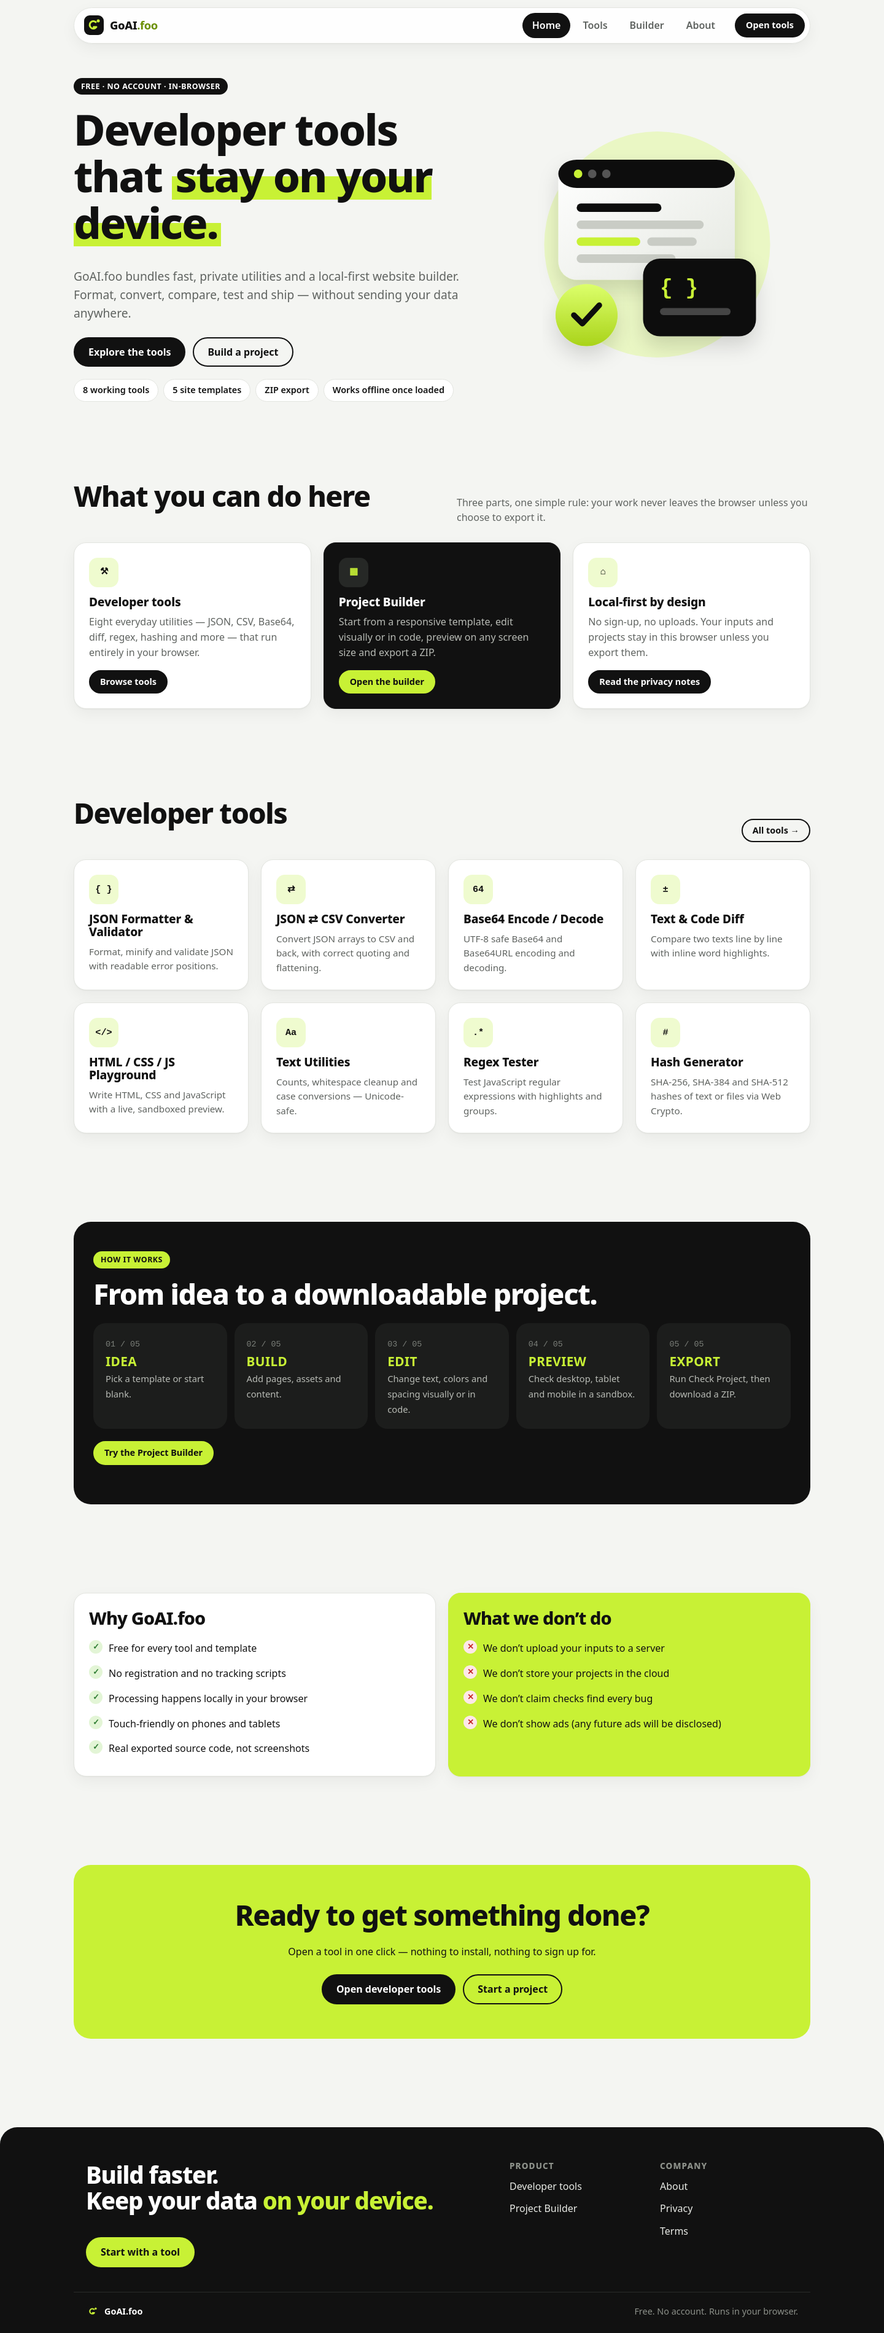
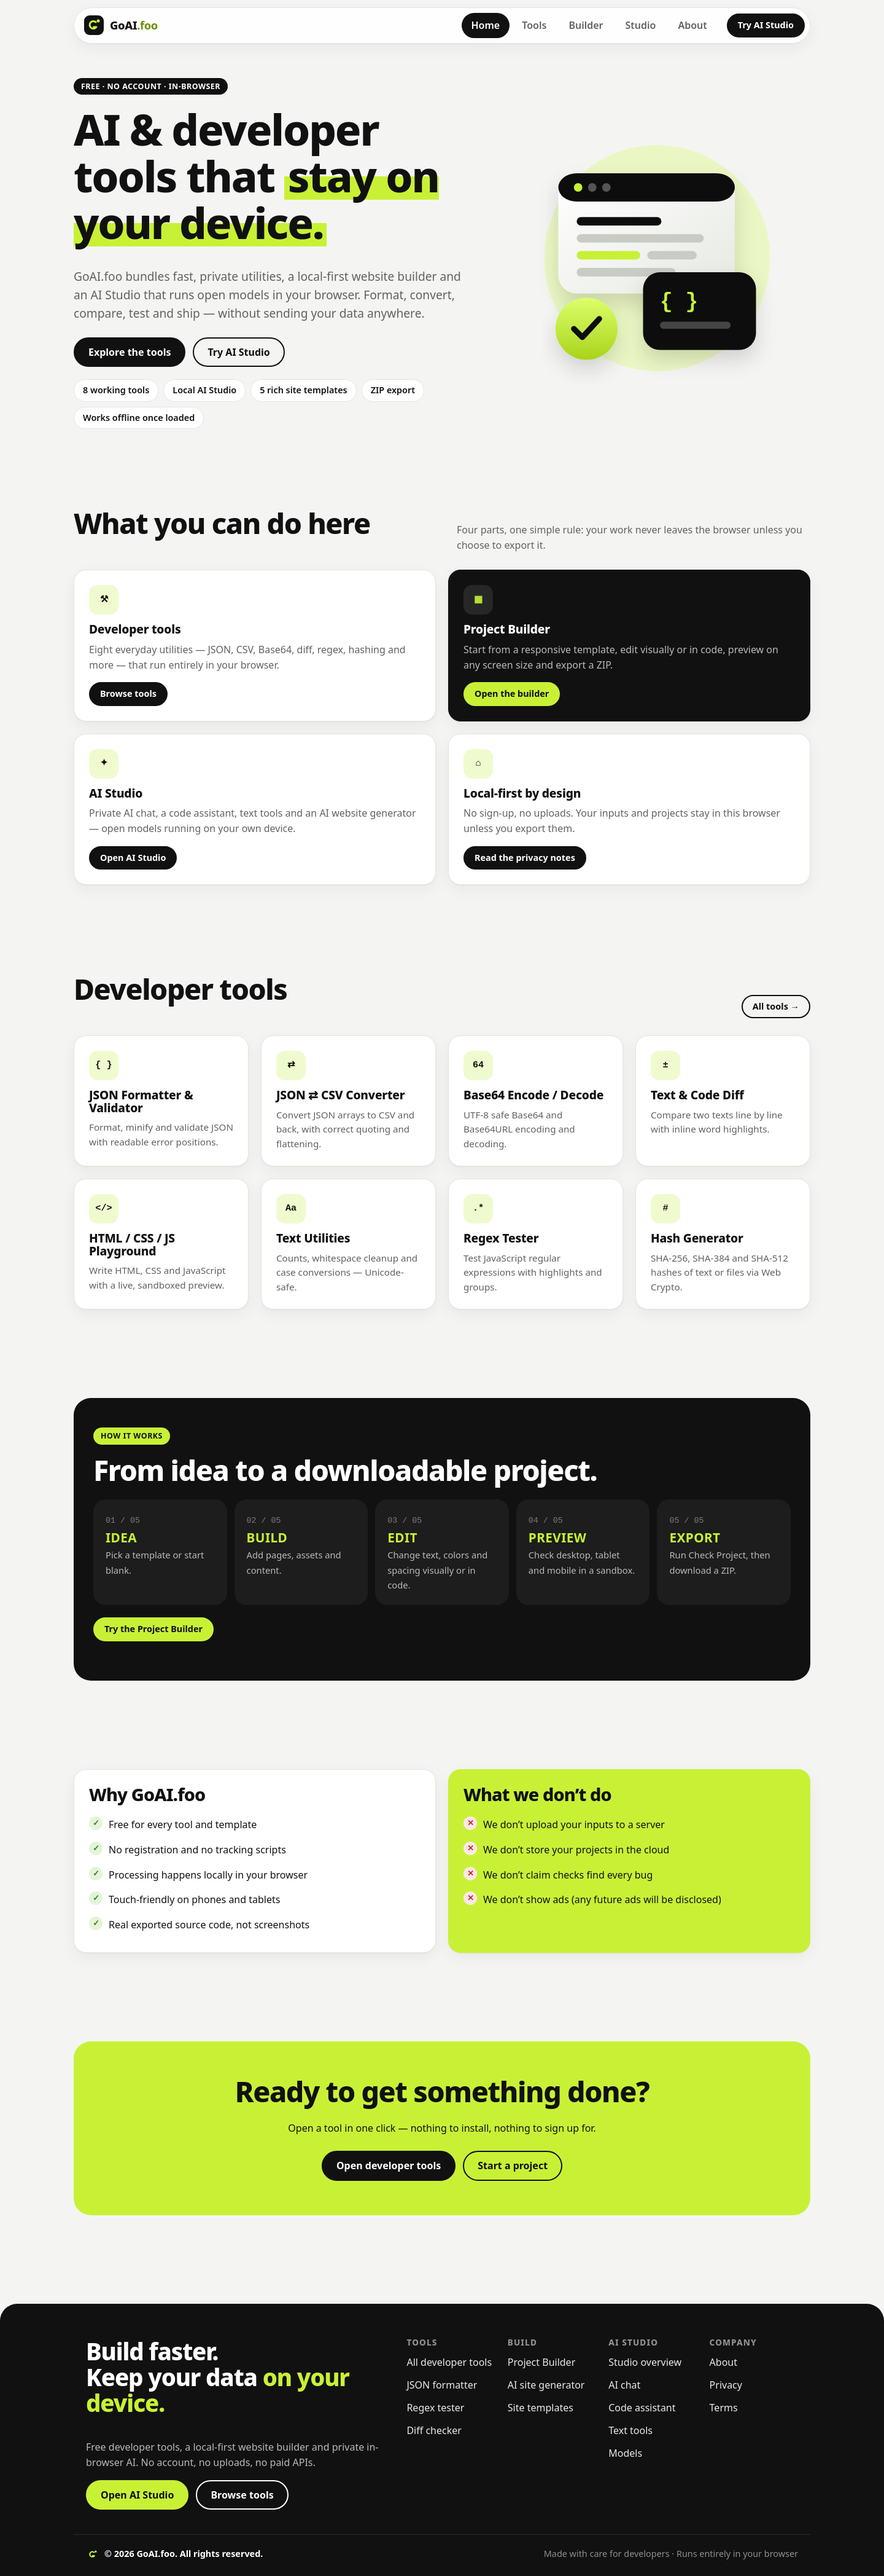
Studio e2e tests, Builder v2 screenshots, README

diff --git a/e2e/studio.js b/e2e/studio.js
@@ -1,0 +1,86 @@
+const { chromium, devices } = require("playwright");
+const B = "http://localhost:3311", S = "/workspace/goai/docs/screenshots/";
+(async () => {
+  const br = await chromium.launch(); const res = []; const ok = (n, c) => { res.push(`${c ? "PASS" : "FAIL"} ${n}`); };
+  const errs = [];
+  const mk = async (opts, gpu = "1") => { const ctx = await br.newContext(opts); await ctx.addInitScript((g) => { try { localStorage.setItem("goai-studio-mock", "1"); localStorage.setItem("goai-studio-mock-gpu", g); } catch (e) {} }, gpu); const p = await ctx.newPage(); p.on("pageerror", (e) => errs.push(e.message)); p.on("dialog", (d) => d.accept()); return p; };
+  const p = await mk({ viewport: { width: 1440, height: 950 } });
+  // overview
+  await p.goto(B + "/studio"); ok("studio overview h1", (await p.textContent("h1")).includes("on your device"));
+  ok("nav has Studio", (await p.locator(".top-nav a:has-text('Studio')").count()) === 1);
+  await p.screenshot({ path: S + "studio-overview-desktop.png", fullPage: true });
+  // chat
+  await p.goto(B + "/studio/chat"); await p.waitForSelector("#model-chat");
+  ok("default webgpu model selected", (await p.inputValue("#model-chat")).includes("Qwen2.5-0.5B"));
+  await p.click("button:has-text('Download')"); await p.waitForSelector(".st-ready", { timeout: 10000 }); ok("model download progress -> ready", true);
+  await p.fill("#chat-in", "Hello studio"); await p.keyboard.press("Enter");
+  await p.waitForSelector(".st-bubble.assistant:has-text('mock model')", { timeout: 10000 });
+  await p.waitForTimeout(800);
+  ok("streamed reply", (await p.locator(".st-bubble.assistant").count()) >= 1);
+  ok("history saved", (await p.locator(".st-history .st-hbtn:has-text('Hello studio')").count()) === 1);
+  await p.fill("#chat-in", "Second question"); await p.keyboard.press("Enter"); await p.waitForTimeout(2000);
+  await p.screenshot({ path: S + "studio-chat-desktop.png" });
+  await p.reload(); await p.waitForSelector(".st-hbtn"); await p.click(".st-hbtn"); await p.waitForTimeout(300);
+  ok("history persists after reload", (await p.locator(".st-bubble").count()) === 4);
+  // code
+  await p.goto(B + "/studio/code"); await p.waitForSelector(".cm-content");
+  await p.click('.st-modelrow button.btn-dark'); await p.waitForSelector(".st-ready");
+  await p.click(".chips button:has-text('Fix bugs')"); await p.click("button:has-text('Run Fix bugs')");
+  await p.waitForSelector(".st-output pre", { timeout: 10000 }); await p.waitForTimeout(1500);
+  ok("code answer with code block", (await p.locator(".st-output pre").count()) >= 1);
+  await p.click("button:has-text('Use in editor')"); await p.waitForTimeout(300);
+  ok("use in editor", (await p.locator(".cm-content").textContent()).includes("return a + b"));
+  await p.screenshot({ path: S + "studio-code-desktop.png" });
+  // text
+  await p.goto(B + "/studio/text"); await p.click("button:has-text('Try a sample')");
+  await p.click('.st-modelrow button.btn-dark'); await p.waitForSelector('.st-ready');
+  await p.click(".tool-panel .toolbar button.btn-dark"); await p.waitForTimeout(2500);
+  ok("text tool output", ((await p.textContent(".st-plain")) || "").length > 10);
+  await p.click(".chips button:has-text('Translate to English')"); await p.check(".st-check input");
+  await p.click(".tool-panel .toolbar button.btn-dark"); await p.waitForTimeout(1500);
+  ok("dedicated translate model", (await p.textContent(".st-plain")).includes("Translation (mock)"));
+  await p.screenshot({ path: S + "studio-text-desktop.png" });
+  // site generator
+  await p.goto(B + "/studio/site"); await p.click("button:has-text('Try an example')");
+  await p.locator("#site-color").fill("#c2410c");
+  await p.click('.st-modelrow button.btn-dark').catch(() => {}); await p.waitForSelector(".st-ready");
+  await p.click("button:has-text('Write my site with AI')"); await p.waitForSelector(".alert-ok", { timeout: 15000 }); await p.waitForTimeout(800);
+  const fr = p.frameLocator(".st-frame");
+  ok("AI copy in preview", (await fr.locator("h1").first().textContent()).includes("Bread worth waking up for"));
+  ok("preview footer", (await fr.locator(".site-footer").textContent()).includes("All rights reserved"));
+  await p.screenshot({ path: S + "studio-site-desktop.png" });
+  await p.click("button:has-text('Open in Builder')"); await p.waitForURL(/builder\/edit/); await p.waitForSelector("iframe"); await p.waitForTimeout(800);
+  ok("opened generated site in builder", (await p.frameLocator("iframe").locator("h1").first().textContent()).includes("Bread"));
+  // models
+  await p.goto(B + "/studio/models"); await p.waitForSelector(".st-model");
+  ok("models page lists all", (await p.locator(".st-model").count()) === 8);
+  await p.screenshot({ path: S + "studio-models-desktop.png", fullPage: true });
+  // no-webgpu fallback
+  const q = await mk({ viewport: { width: 1280, height: 900 } }, "0");
+  await q.goto(B + "/studio/chat"); await q.waitForSelector(".st-gpu");
+  ok("no-webgpu fallback message", (await q.textContent(".st-gpu")).includes("WebGPU isn’t available"));
+  ok("cpu model default", (await q.inputValue("#model-chat")).includes("SmolLM2"));
+  await q.screenshot({ path: S + "studio-nowebgpu-desktop.png" });
+  // mobile
+  const m = await mk({ ...devices["iPhone 13"] });
+  await m.goto(B + "/studio"); ok("mobile bottom nav studio", await m.locator(".bottom-nav a:has-text('Studio')").isVisible());
+  await m.screenshot({ path: S + "studio-overview-mobile.png" });
+  await m.goto(B + "/studio/chat"); await m.click("button:has-text('Download')"); await m.waitForSelector(".st-ready");
+  await m.fill("#chat-in", "Hi from phone"); await m.keyboard.press("Enter"); await m.waitForTimeout(2500);
+  ok("mobile chat reply", (await m.locator(".st-bubble.assistant").count()) >= 1);
+  const ow = await m.evaluate(() => document.documentElement.scrollWidth <= window.innerWidth + 1); ok("mobile no horizontal overflow", ow);
+  await m.screenshot({ path: S + "studio-chat-mobile.png" });
+  await m.goto(B + "/studio/code"); await m.waitForSelector(".cm-content"); await m.screenshot({ path: S + "studio-code-mobile.png" });
+  // footer + SEO
+  await p.goto(B + "/"); const ft = await p.textContent(".site-footer");
+  ok("site footer copyright", ft.includes("© 2026 GoAI.foo. All rights reserved.") && ft.includes("Made with care"));
+  await p.locator(".site-footer").scrollIntoViewIfNeeded(); await p.locator(".site-footer").screenshot({ path: S + "studio-site-footer.png" });
+  ok("meta keywords", ((await p.getAttribute('meta[name="keywords"]', "content")) || "").includes("in-browser AI chat"));
+  ok("og image", (await p.locator('meta[property="og:image"]').count()) >= 1);
+  const og = await p.request.get(B + "/opengraph-image"); ok("og image renders", og.ok() && (og.headers()["content-type"] || "").includes("image/png"));
+  const sm = await (await p.request.get(B + "/sitemap.xml")).text(); ok("sitemap has studio", sm.includes("/studio/chat"));
+  await p.goto(B + "/tools/regex"); ok("tool unique title", (await p.title()).startsWith("Regex Tester — Free Online"));
+  ok("no page errors", errs.length === 0); if (errs.length) console.log(errs.slice(0, 5));
+  console.log(res.join("\n")); console.log(`${res.filter((r) => r.startsWith("PASS")).length}/${res.length} passed`);
+  await br.close();
+})().catch((e) => { console.error(e); process.exit(1); });

diff --git a/lib/studio/engine.ts b/lib/studio/engine.ts
@@ -36,7 +36,7 @@ const sleep = (ms: number) => new Promise((r) => setTimeout(r, ms));
 function mockAnswer(msgs: Msg[]): string {
   const last = msgs[msgs.length - 1]?.content ?? "";
   if (/JSON object/.test(msgs[0]?.content ?? "")) return JSON.stringify({ brand: "Bloom & Crumb", tagline: "Artisan bakery baking fresh every morning.", eyebrow: "Fresh since 2012", heroTitle: "Bread worth waking up for", heroText: "Slow-fermented sourdough, flaky pastries and celebration cakes, baked by hand every morning in the heart of town.", ctaPrimary: "Order for pickup", ctaSecondary: "Visit the bakery", features: [{ icon: "🥖", title: "Slow sourdough", text: "48-hour fermentation for flavour and easy digestion." }, { icon: "🥐", title: "Butter pastries", text: "Laminated by hand with French butter." }, { icon: "🎂", title: "Custom cakes", text: "Birthdays, weddings and everything between." }, { icon: "🌾", title: "Local flour", text: "Stone-milled grain from farms within 80 km." }, { icon: "☕", title: "Specialty coffee", text: "Roasted in small batches nearby." }, { icon: "🚲", title: "Morning delivery", text: "Fresh loaves at your door by 8 am." }], stats: [{ value: "12", label: "Years baking" }, { value: "900+", label: "Loaves a week" }, { value: "4.9★", label: "Google rating" }, { value: "6am", label: "Doors open" }], testimonials: [{ quote: "The best croissant outside Paris. I come every Saturday.", name: "Hana Yusuf", role: "Regular customer" }, { quote: "Our wedding cake was stunning and delicious.", name: "Tom & Ines", role: "Newlyweds" }, { quote: "Friendly team and the sourdough is unbeatable.", name: "Rami Haddad", role: "Local chef" }], faqs: [{ q: "Do you have gluten-free options?", a: "Yes, we bake a gluten-free loaf and brownies daily." }, { q: "How early should I order a cake?", a: "Five days ahead for most designs." }, { q: "Can I pre-order bread?", a: "Order online by 8 pm for next-morning pickup." }, { q: "Do you cater events?", a: "Yes — pastry platters for 10 to 200 guests." }], ctaTitle: "Taste it fresh tomorrow morning", ctaText: "Pre-order online tonight and pick up warm bread from 6 am.", aboutText: "A family bakery built on patience, good flour and early mornings." });
-  if (/```/.test(last) || /code/i.test(msgs[0]?.content ?? "")) return "Here is what the code does:\n\n1. It defines a function.\n2. It returns the result.\n\n```js\nfunction add(a, b) {\n  return a + b;\n}\n```\n\nNo issues found (mock model).";
+  if (/```/.test(last) || /developer/i.test(msgs[0]?.content ?? "")) return "Here is what the code does:\n\n1. It defines a function.\n2. It returns the result.\n\n```js\nfunction add(a, b) {\n  return a + b;\n}\n```\n\nNo issues found (mock model).";
   return "Hello! I'm a **mock model** used for automated tests. You asked: " + last.slice(0, 80);
 }
 

diff --git a/e2e/builder-v2.js b/e2e/builder-v2.js
@@ -1,0 +1,28 @@
+const { chromium, devices } = require("playwright");
+const B = "http://localhost:3311", S = "/workspace/goai/docs/screenshots/";
+(async () => {
+  const br = await chromium.launch(); const res = []; const ok = (n, c) => res.push(`${c ? "PASS" : "FAIL"} ${n}`);
+  const ctx = await br.newContext({ viewport: { width: 1440, height: 950 } }); const p = await ctx.newPage();
+  const errs = []; p.on("pageerror", (e) => errs.push(e.message));
+  await p.goto(B + "/builder"); await p.screenshot({ path: S + "builder-home-v2.png" });
+  for (const [tpl, color, font, mode] of [["business", "#0f766e", "Modern", "auto"], ["ecommerce", "", "", "auto"], ["blog", "", "Classic", "auto"], ["portfolio", "#f97316", "", "dark"]]) {
+    await p.goto(B + "/builder"); await p.fill("#pname", tpl === "business" ? "Northstar Consulting" : "");
+    if (color) await p.locator("#opt-color").fill(color);
+    if (font) await p.selectOption("#opt-font", font);
+    await p.selectOption("#opt-mode", mode);
+    await p.click(`button:has-text('Use ${tpl === "ecommerce" ? "E-commerce" : tpl[0].toUpperCase() + tpl.slice(1)}')`);
+    await p.waitForURL(/edit\?id=/); const id = new URL(p.url()).searchParams.get("id");
+    // render the real exported HTML standalone for a full-page shot
+    const html = await p.evaluate(async (id) => { const r = indexedDB.open("goai-builder"); const db = await new Promise((s) => (r.onsuccess = () => s(r.result))); const proj = await new Promise((s) => { const q = db.transaction("projects").objectStore("projects").get(id); q.onsuccess = () => s(q.result); }); return proj.files["index.html"].replace('<link rel="stylesheet" href="styles.css">', "<style>" + proj.files["styles.css"] + "</style>").replace('<script src="script.js"></script>', "<script>" + proj.files["script.js"] + "</script>"); }, id);
+    const v = await br.newPage({ viewport: { width: 1440, height: 900 } }); await v.setContent(html); await v.waitForTimeout(300);
+    const sections = await v.locator("main section, main article").count();
+    ok(`${tpl}: rich page (${sections} sections)`, sections >= 3);
+    ok(`${tpl}: footer`, (await v.textContent(".site-footer")).includes("All rights reserved"));
+    if (color) ok(`${tpl}: chosen color applied`, (await v.evaluate(() => getComputedStyle(document.querySelector(".btn")).backgroundColor)) !== "rgb(31, 111, 235)");
+    await v.screenshot({ path: S + `builder-${tpl}-v2.png`, fullPage: true });
+    if (tpl === "business") { await v.setViewportSize({ width: 390, height: 844 }); await v.waitForTimeout(200); await v.screenshot({ path: S + "builder-business-mobile-v2.png", fullPage: true }); }
+    await v.close();
+  }
+  ok("no page errors", errs.length === 0);
+  console.log(res.join("\n")); await br.close();
+})();

diff --git a/README.md b/README.md
@@ -15,3 +15,10 @@ npm test           # vitest unit tests
 npm run build && npm start
 ```
 Browser end-to-end scripts used for verification are in `e2e/` (Playwright; expect a server on port 3311).
+
+## AI Studio (`/studio`) — branch `studio`
+- Chat, code assistant, text tools, AI site generator and model manager. Models run in the browser: WebLLM (WebGPU) and Transformers.js (WASM/CPU fallback). No server, no API keys.
+- Chats are stored in IndexedDB (`goai-studio`). Models are cached by the browser (Cache API).
+- Test mode: `localStorage.setItem("goai-studio-mock","1")` (or `?mock=1`) swaps in a mock engine; `goai-studio-mock-gpu=0` simulates no WebGPU.
+- Tests: `npm test` (vitest), `NODE_PATH=/workspace/pw/node_modules node e2e/studio.js` and `e2e/builder-v2.js` against `next start -p 3311`.
+- Analytics: `@vercel/analytics` with custom events `tool_used`, `builder_export`, `studio_model_loaded`, `studio_message`. Enable Web Analytics in the Vercel project dashboard on deploy.
